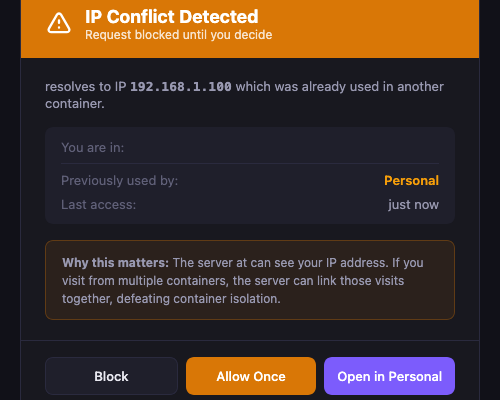
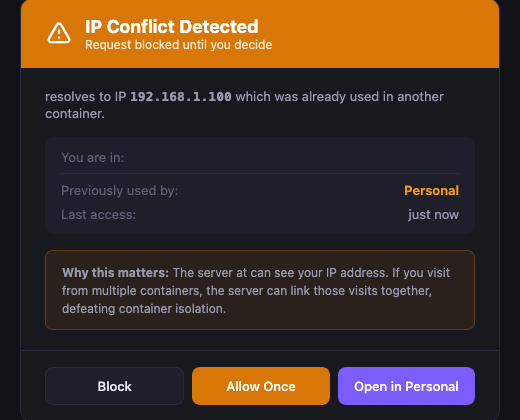
docs: fix clipped screenshots — wider viewport (440x600)

diff --git a/scripts/take-screenshots.ts b/scripts/take-screenshots.ts
@@ -137,10 +137,10 @@ async function main() {
 
   // Match the real Firefox popup dimensions
   const pages = [
-    { name: 'dashboard', url: 'http://localhost:19876/popup/index.html?tab=dashboard', w: 380, h: 580 },
-    { name: 'signals', url: 'http://localhost:19876/popup/index.html?tab=signals', w: 380, h: 580 },
-    { name: 'profile', url: 'http://localhost:19876/popup/index.html?tab=profile', w: 380, h: 580 },
-    { name: 'ip-warning', url: 'http://localhost:19876/pages/ip-warning.html?ip=192.168.1.100&container=Work&originalContainer=Personal', w: 500, h: 400 },
+    { name: 'dashboard', url: 'http://localhost:19876/popup/index.html?tab=dashboard', w: 440, h: 600 },
+    { name: 'signals', url: 'http://localhost:19876/popup/index.html?tab=signals', w: 440, h: 600 },
+    { name: 'profile', url: 'http://localhost:19876/popup/index.html?tab=profile', w: 440, h: 600 },
+    { name: 'ip-warning', url: 'http://localhost:19876/pages/ip-warning.html?ip=192.168.1.100&container=Work&originalContainer=Personal', w: 520, h: 420 },
   ];
 
   for (const p of pages) {
